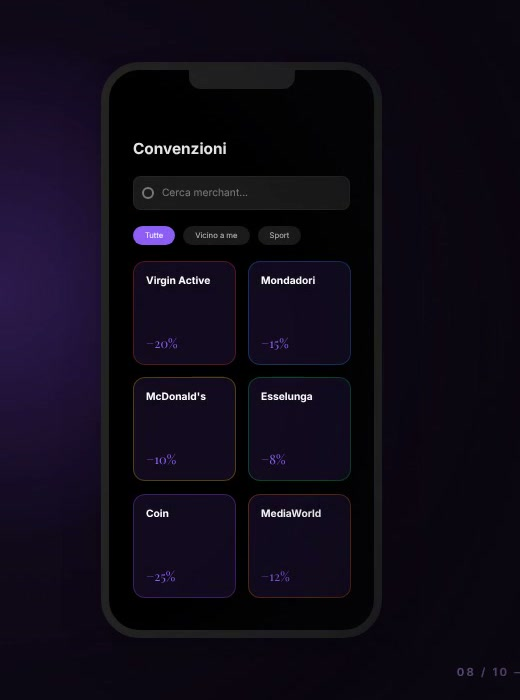
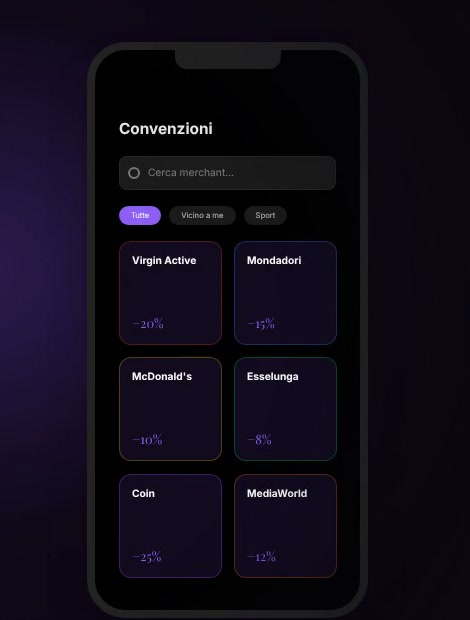
Rifiniture: rimuovi contatore dalle immagini, cap altezza, chip punti chiave

Changed region(s): [[0.1787, 0.0613, 0.8043, 1.0], [0.8638, 0.95, 0.983, 0.9806]]

diff --git a/artifacts/filo-diretto-landing/src/pages/home.tsx b/artifacts/filo-diretto-landing/src/pages/home.tsx
@@ -21,6 +21,7 @@ const pillars = [
     tag: "Comunicazione HR",
     title: "Comunichi e sai chi ha letto",
     desc: "Invii dalla dashboard, segmenti per sede o reparto e la push arriva sulla schermata di blocco. Fino al 95% di lettura, con la conferma di chi ha ricevuto.",
+    points: ["Segmentazione per sede e reparto", "Conferme di lettura in tempo reale", "Automazioni"],
     img: imgDashboard,
     alt: "Dashboard di Filo Diretto con tasso di lettura e ultime comunicazioni",
   },
@@ -29,6 +30,7 @@ const pillars = [
     tag: "Hub Convenzioni",
     title: "Welfare che si sente",
     desc: "Un hub di convenzioni online e fisiche, con sconti geolocalizzati che il dipendente attiva direttamente dal pass, ovunque si trovi.",
+    points: ["Convenzioni online e fisiche", "Sconti geolocalizzati", "Attivazione dal pass"],
     img: imgConvenzioni,
     alt: "Marketplace delle convenzioni nel pass Filo Diretto",
   },
@@ -37,6 +39,7 @@ const pillars = [
     tag: "People Growth",
     title: "Le persone crescono con te",
     desc: "Ogni azione vale coin che diventano carriera: dieci esperienze di crescita, dal mentoring con il management alla formazione. L'engagement che diventa percorso.",
+    points: ["Coin per ogni azione", "10 esperienze di crescita", "Mentoring, formazione, coaching"],
     img: imgGrowth,
     alt: "Coin balance e marketplace growth nel pass Filo Diretto",
   },
@@ -213,8 +216,8 @@ export default function Home() {
                   transition={{ duration: 0.5 }}
                   className="grid grid-cols-1 md:grid-cols-2 gap-8 md:gap-14 items-center"
                 >
-                  <div className={`rounded-2xl overflow-hidden border border-border/30 bg-background ${i % 2 === 1 ? "md:order-2" : ""}`}>
-                    <img src={feat.img} alt={feat.alt} className="w-full block" />
+                  <div className={`rounded-2xl overflow-hidden border border-border/30 bg-background p-4 flex justify-center ${i % 2 === 1 ? "md:order-2" : ""}`}>
+                    <img src={feat.img} alt={feat.alt} className="block max-h-[460px] w-auto rounded-lg" />
                   </div>
                   <div className={i % 2 === 1 ? "md:order-1" : ""}>
                     <div className="flex items-baseline gap-3 mb-4">
@@ -222,7 +225,14 @@ export default function Home() {
                       <span className="text-xs uppercase tracking-[0.2em] text-muted-foreground">{feat.tag}</span>
                     </div>
                     <h3 className="font-serif text-2xl md:text-3xl leading-tight mb-5">{feat.title}</h3>
-                    <p className="text-lg text-muted-foreground leading-relaxed font-light">{feat.desc}</p>
+                    <p className="text-lg text-muted-foreground leading-relaxed font-light mb-7">{feat.desc}</p>
+                    <ul className="flex flex-wrap gap-2">
+                      {feat.points.map((p) => (
+                        <li key={p} className="rounded-full border border-border/50 bg-background px-3 py-1.5 text-sm text-muted-foreground">
+                          {p}
+                        </li>
+                      ))}
+                    </ul>
                   </div>
                 </motion.div>
               ))}